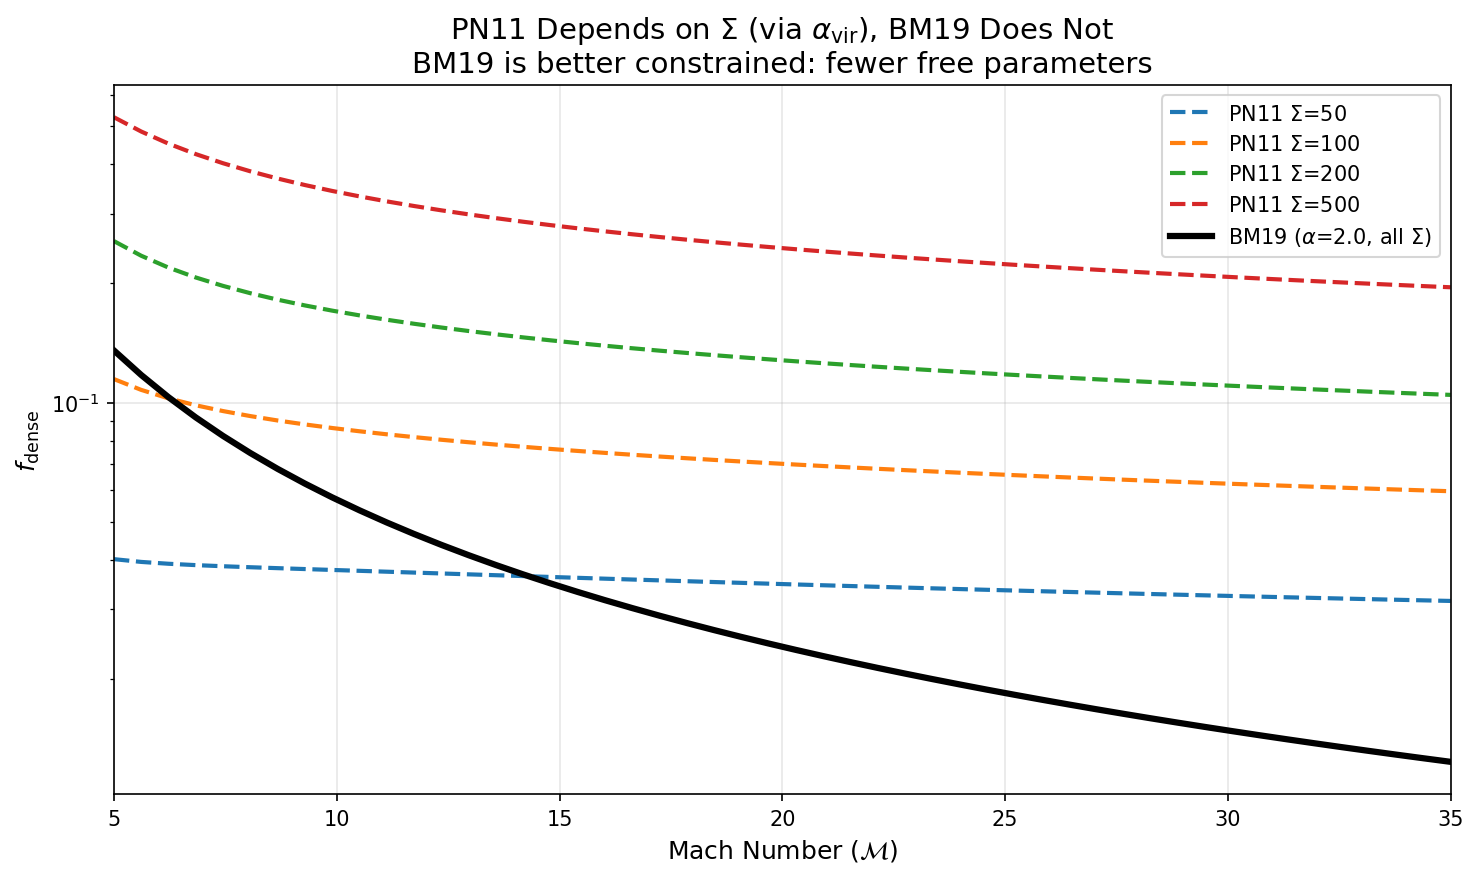
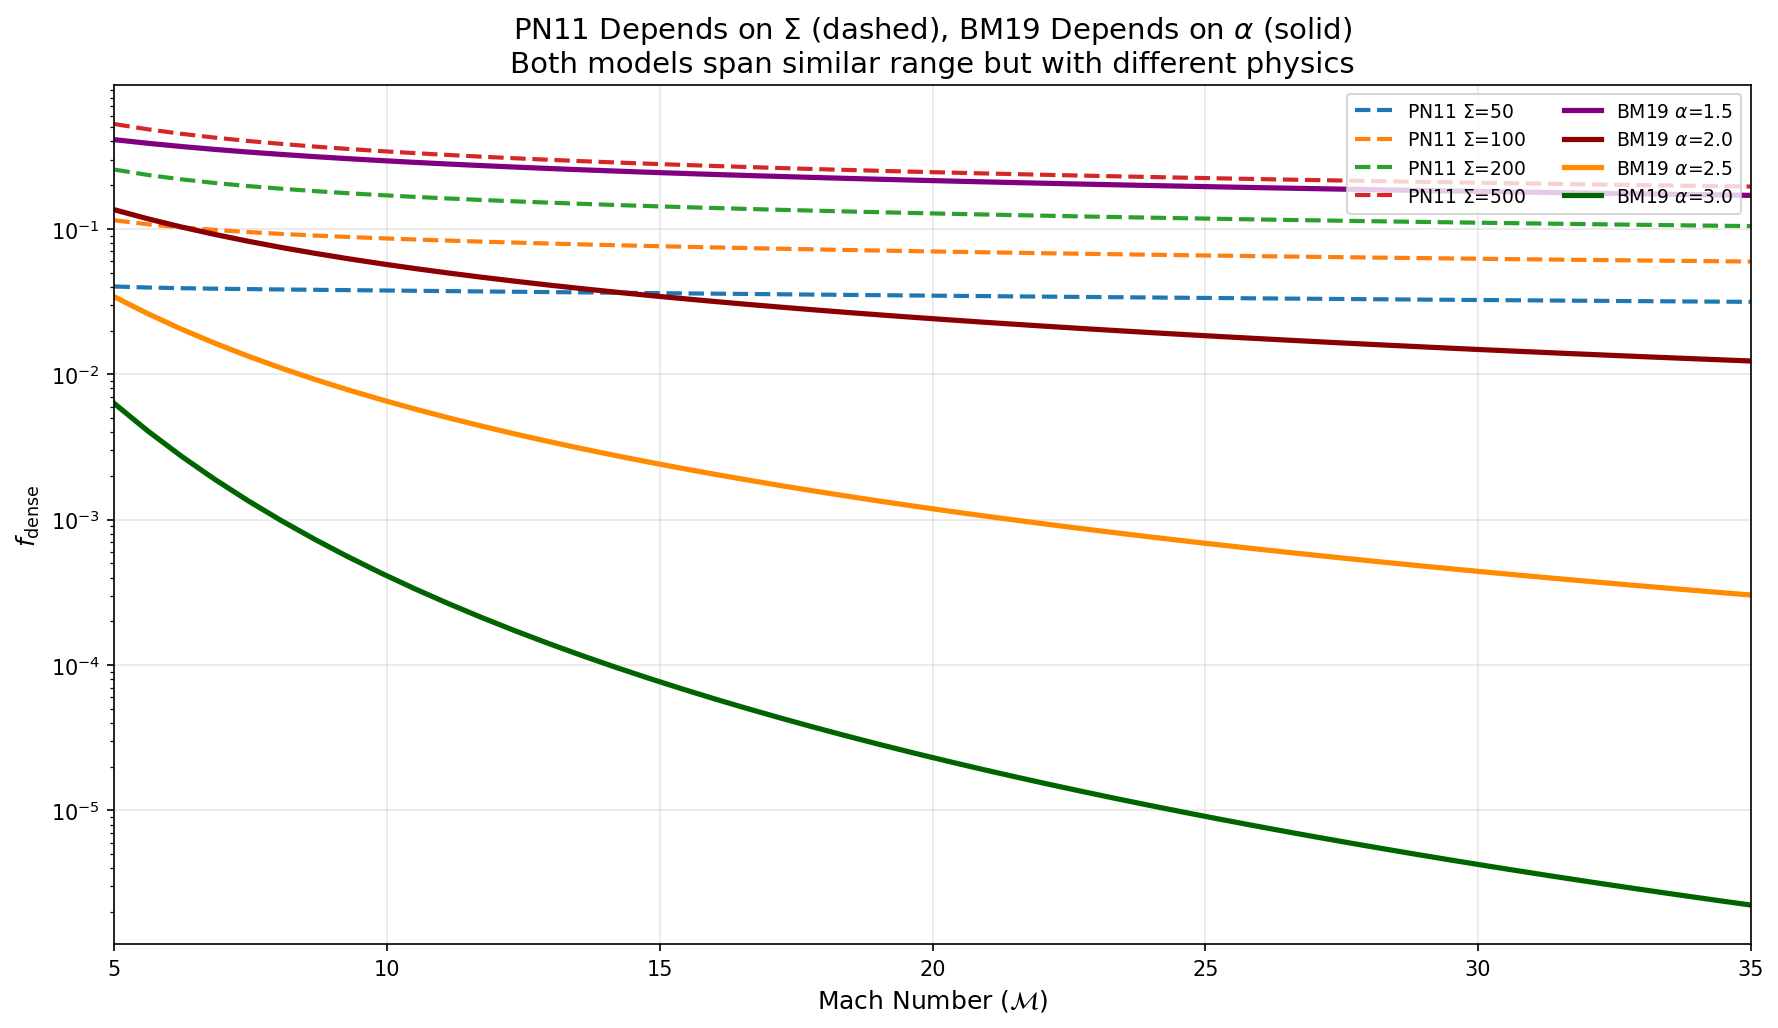
feat(validation): add BM19 α lines to sigma dependence plot
A4 sigma dependence plot now shows:
- PN11: 4 Σ values (50, 100, 200, 500) as dashed lines
- BM19: 4 α values (1.5, 2.0, 2.5, 3.0) as solid lines

Both models span similar f_dense range with different physics.

🤖 Generated with [Claude Code](https://claude.com/claude-code)

diff --git a/validation/bm19_fdf_suite/tier1_a4_pn11_vs_bm19.py b/validation/bm19_fdf_suite/tier1_a4_pn11_vs_bm19.py
@@ -205,23 +205,27 @@ def make_plot(results: dict, show: bool = False) -> str:
 
 
 def make_sigma_dependence_plot(show: bool = False) -> str:
-    """Show how PN11 depends on Sigma while BM19 doesn't.
+    """Show how PN11 depends on Sigma while BM19 depends on α.
 
     PN11 uses alpha_vir(Sigma) so f_dense changes with Sigma.
-    BM19 only depends on (M, alpha, b), not Sigma directly.
+    BM19 depends on (M, alpha, b), not Sigma - show multiple α lines.
     """
     setup_publication_style()
 
-    fig, ax = plt.subplots(figsize=(10, 6))
+    fig, ax = plt.subplots(figsize=(12, 7))
 
     machs = np.linspace(5, 35, 50)
     Sigmas = [50, 100, 200, 500]
-    alpha = 2.0
+    alphas_bm19 = [1.5, 2.0, 2.5, 3.0]
     b = 0.4
 
+    # Colors for PN11 (by Sigma) - dashed lines
     colors_sigma = {50: "C0", 100: "C1", 200: "C2", 500: "C3"}
 
-    # PN11 for different Sigma
+    # Colors for BM19 (by alpha) - solid lines
+    colors_alpha = {1.5: "purple", 2.0: "darkred", 2.5: "darkorange", 3.0: "darkgreen"}
+
+    # PN11 for different Sigma (dashed)
     for Sigma in Sigmas:
         alpha_vir = float(pn11.alpha_vir_from_sigma(Sigma))
         f_dense_pn11 = []
@@ -236,26 +240,29 @@ def make_sigma_dependence_plot(show: bool = False) -> str:
             label=f"PN11 $\\Sigma$={Sigma}"
         )
 
-    # BM19 (single line - doesn't depend on Sigma)
-    f_dense_bm19 = []
-    for mach in machs:
-        result = bm19.bm19_pipeline(mach, b, alpha, eta_survive=0.6)
-        f_dense_bm19.append(float(result.f_dense))
+    # BM19 for different alpha (solid lines)
+    for alpha in alphas_bm19:
+        f_dense_bm19 = []
+        for mach in machs:
+            result = bm19.bm19_pipeline(mach, b, alpha, eta_survive=0.6)
+            f_dense_bm19.append(float(result.f_dense))
 
-    ax.semilogy(
-        machs, f_dense_bm19,
-        color="black", linewidth=3,
-        label=f"BM19 ($\\alpha$={alpha}, all $\\Sigma$)"
-    )
+        ax.semilogy(
+            machs, f_dense_bm19,
+            color=colors_alpha[alpha], linewidth=2.5, linestyle="-",
+            label=f"BM19 $\\alpha$={alpha}"
+        )
 
     ax.set_xlabel("Mach Number ($\\mathcal{M}$)", fontsize=12)
     ax.set_ylabel("$f_\\mathrm{dense}$", fontsize=12)
     ax.set_title(
-        "PN11 Depends on $\\Sigma$ (via $\\alpha_\\mathrm{vir}$), BM19 Does Not\n"
-        "BM19 is better constrained: fewer free parameters",
+        "PN11 Depends on $\\Sigma$ (dashed), BM19 Depends on $\\alpha$ (solid)\n"
+        "Both models span similar range but with different physics",
         fontsize=14
     )
-    ax.legend(fontsize=10, loc="upper right")
+
+    # Create separate legends for clarity
+    ax.legend(fontsize=9, loc="upper right", ncol=2)
     ax.grid(True, alpha=0.3)
     ax.set_xlim(machs.min(), machs.max())
 
